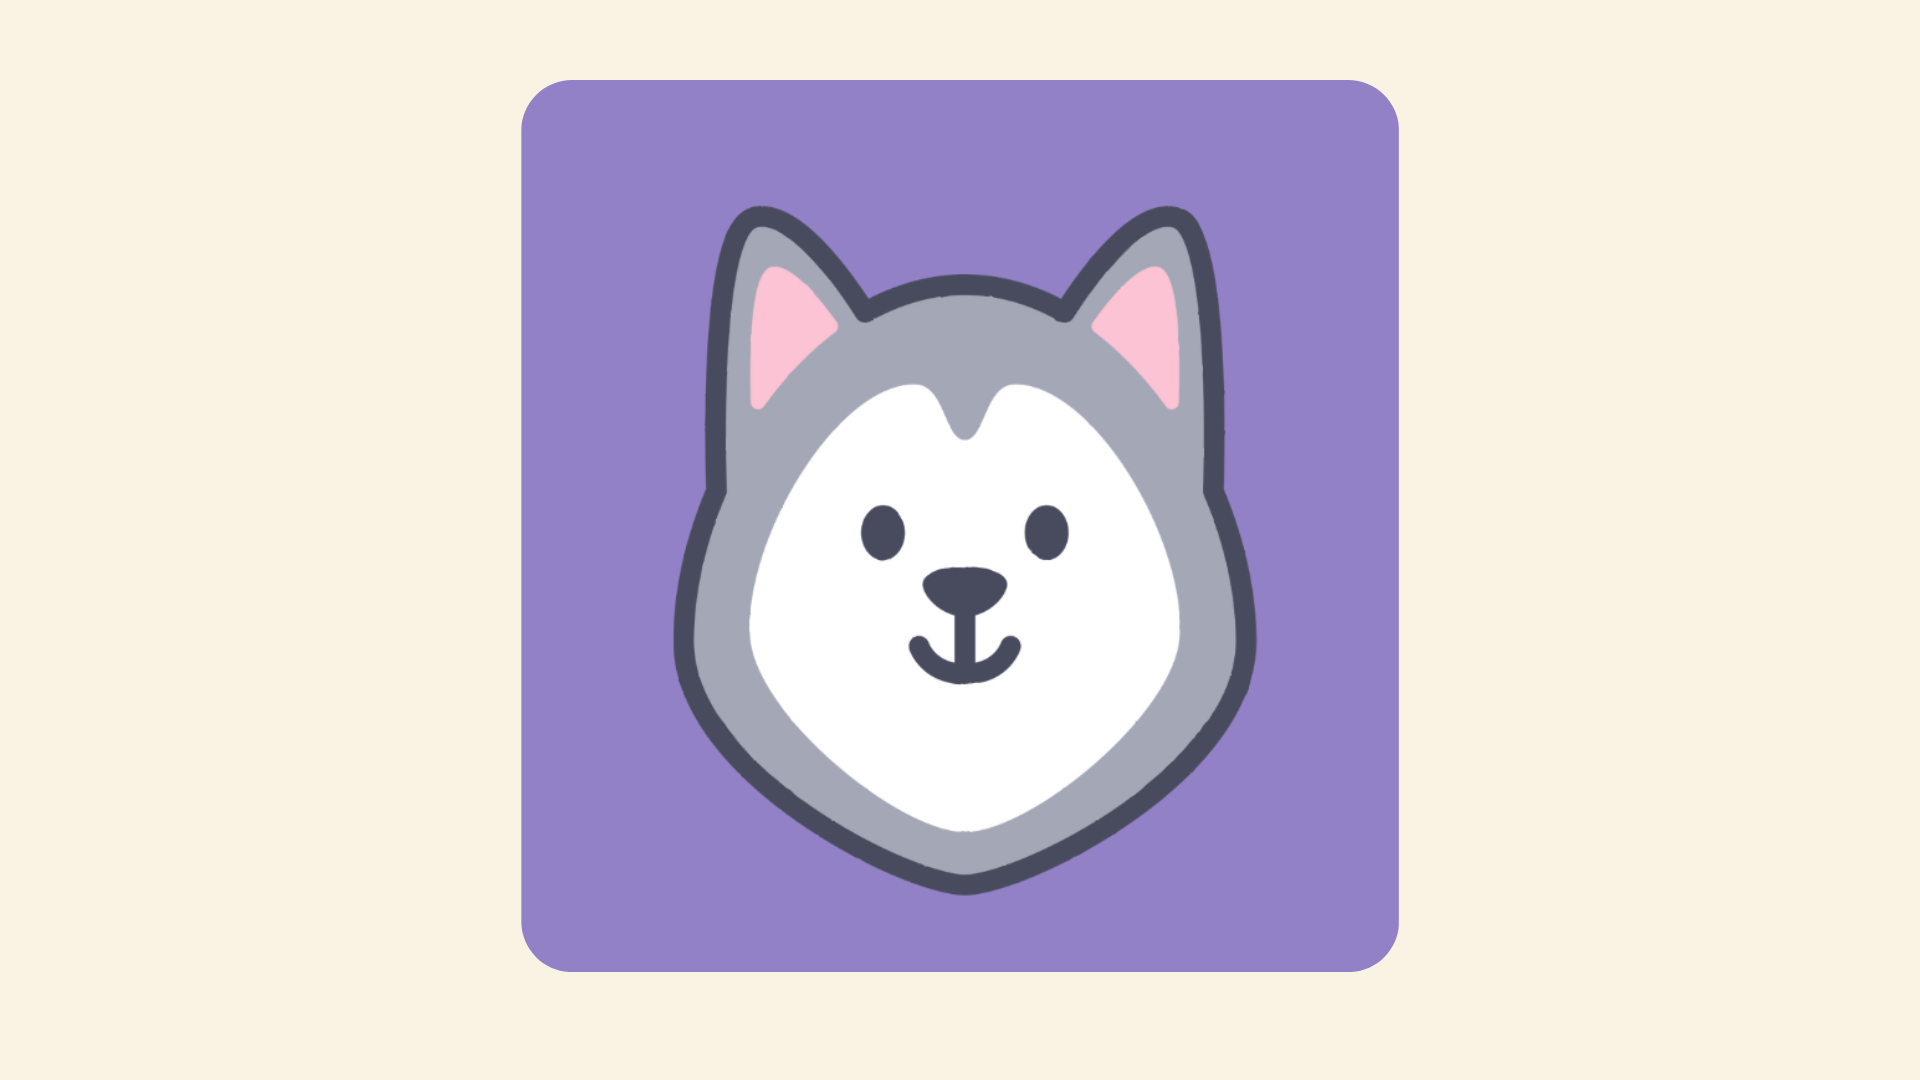
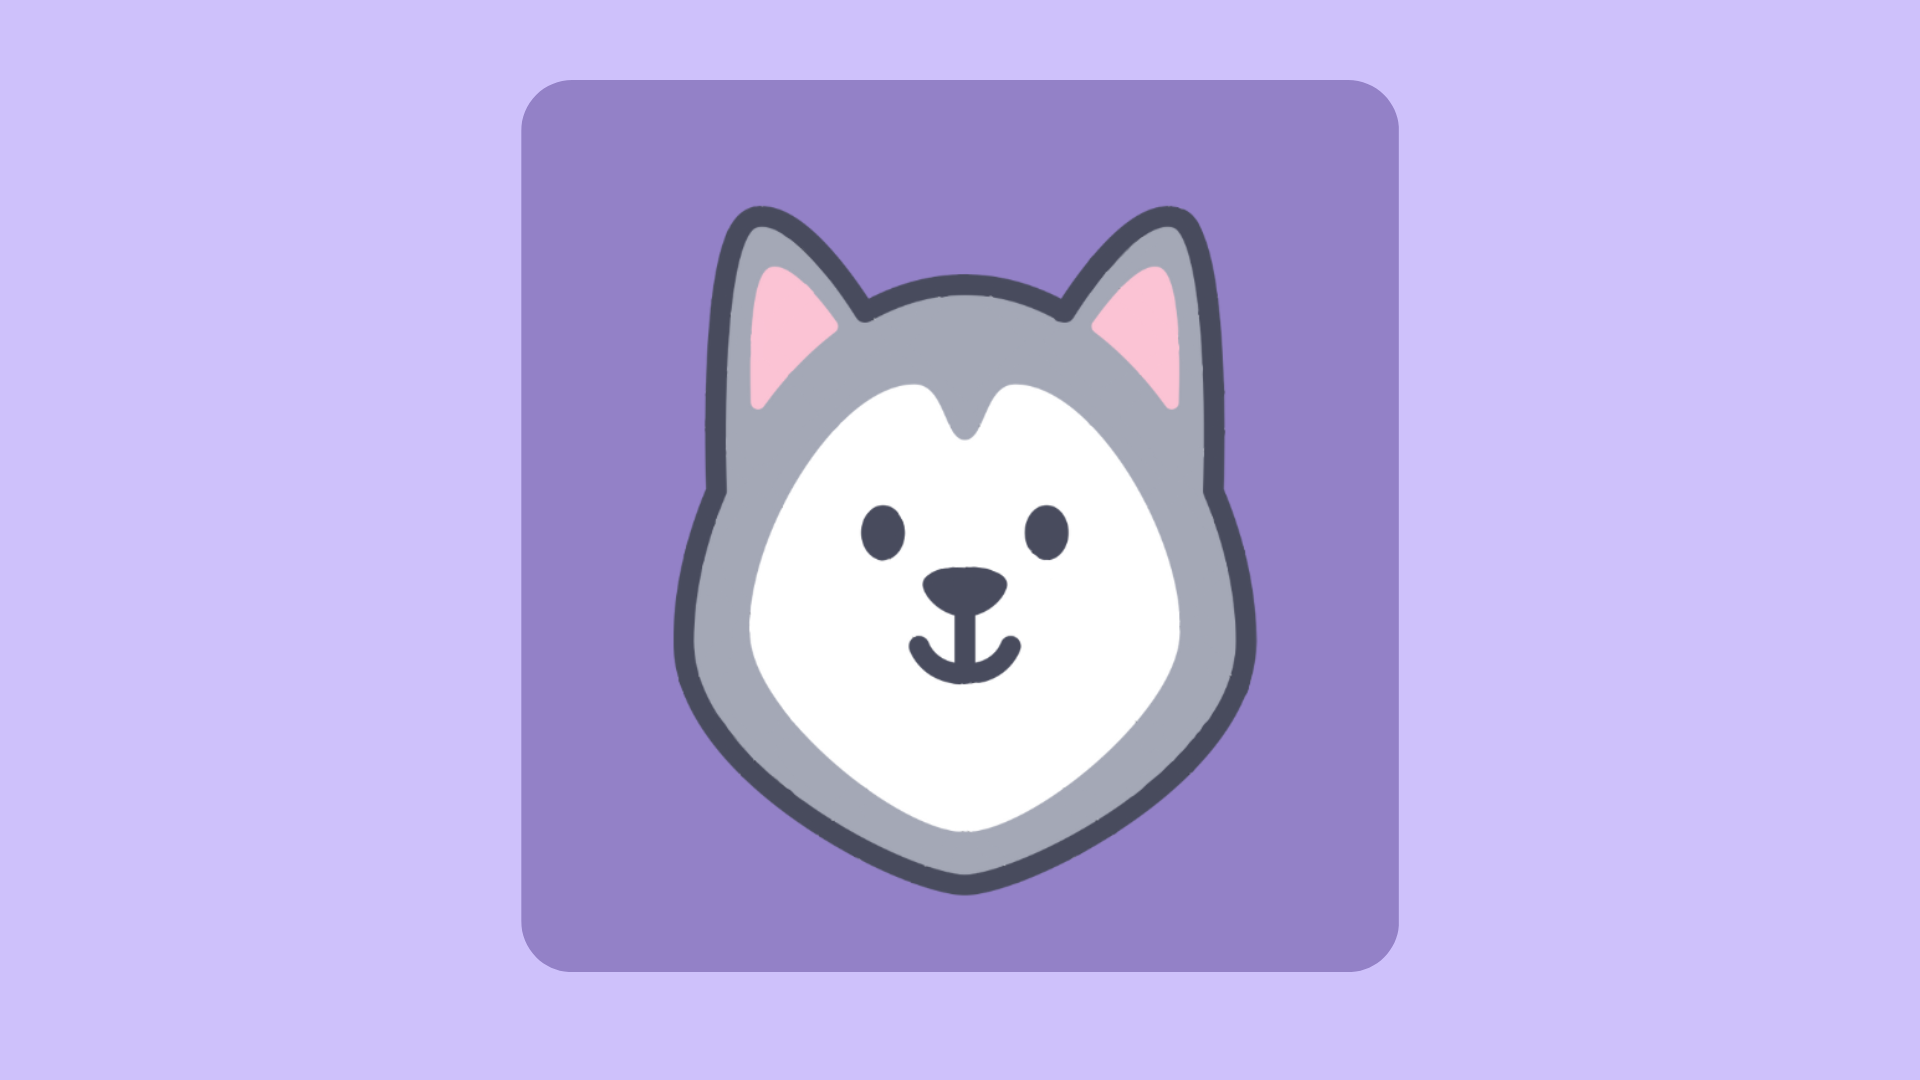
some style for about us

diff --git a/clients/src/components/AllAboutUs.jsx b/clients/src/components/AllAboutUs.jsx
@@ -1,48 +1,67 @@
-// import './AboutUs.css'; // Assuming your CSS file is named DubsTrack.css
+import "./Aboutus.css"; // Assuming your CSS file is named DubsTrack.css
 // import UserContext from '../contexts/UserContext';
-import { useContext } from 'react';
-import { Link } from 'react-router-dom';
+import { useContext } from "react";
+import { Link } from "react-router-dom";
 import appIcon from "../images/appIcon.png";
 
-import UserContext from '../contexts/UserContext';
+import UserContext from "../contexts/UserContext";
 
 const AllAboutUs = () => {
-  const { loggedInUser } = useContext(UserContext)
+  const { loggedInUser } = useContext(UserContext);
   // const {loggedInUser} = useContext(UserContext);
-  console.log(loggedInUser)
+  console.log(loggedInUser);
   return (
-    <div className = "aboutUsContainer">
-      <section>
-
-        <h2>Welcome to HuskyPal{loggedInUser.firstName}: Discover everything UW has to offer with your virtual companion!</h2>
-        <p>HuskyPal is your personalized guide to exploring the University of Washington.
-          Start each quarter by picking a trait for your HuskyPal, like adventurous or studious,
-          and get ready for a series of exciting challenges. From walking trails to attending events,
-          each activity is a step towards discovering what UW has to offer.</p>
+    <div className="aboutUsContainer">
+      <section className="titleDesc">
+        <h3 style={{padding: "60px", marginTop: "100px" }}>
+          Welcome to HuskyPal: Discover everything UW has to offer with your virtual companion!
+        </h3>
+        <img
+          src={appIcon}
+          alt="husky pall app icon"
+          style={{ width: "500px", height: "auto", marginTop: "-50px" }}
+        />
+        <p>
+          HuskyPal is your personalized guide to exploring the University of
+          Washington. Start each quarter by picking a trait for your HuskyPal,
+          like adventurous or studious, and get ready for a series of exciting
+          challenges. From walking trails to attending events, each activity is
+          a step towards discovering what UW has to offer.
+        </p>
       </section>
-
-      <img src={appIcon} alt='husky pall app icon' style={{ width: '500px', height: 'auto' }} />
 
       <section>
         <h5>Customize Your Journey</h5>
-        <p>As you complete challenges, you'll level up and unlock accessories for your HuskyPal,
-          making your virtual companion uniquely yours. Finish all your challenges for the quarter,
-          and you'll earn an exclusive reward.</p>
-      </section>
-      <section> <h4>Connect and Share</h4>
-        <p>HuskyPal isn't just for solo adventures; it's a way to connect with other students.
-          Share your experiences and take on challenges together, enriching your UW experience.</p>
+        <p>
+          As you complete challenges, you'll level up and unlock accessories for
+          your HuskyPal, making your virtual companion uniquely yours. Finish
+          all your challenges for the quarter, and you'll earn an exclusive
+          reward.
+        </p>
       </section>
       <section>
-        <h5>   <button type="button"><Link to="/home">Get Started</Link></button> </h5>
-        <p>Join HuskyPal today and turn your UW journey into an adventure filled with discovery,
-          growth, and community. Your HuskyPal is ready to explore with you!</p>
-
+        <h4>Connect and Share</h4>
+        <p>
+          HuskyPal isn't just for solo adventures; it's a way to connect with
+          other students. Share your experiences and take on challenges
+          together, enriching your UW experience.
+        </p>
       </section>
-
+      <section>
+        <h5>
+          {" "}
+          <button type="button">
+            <Link to="/home">Get Started</Link>
+          </button>{" "}
+        </h5>
+        <p>
+          Join HuskyPal today and turn your UW journey into an adventure filled
+          with discovery, growth, and community. Your HuskyPal is ready to
+          explore with you!
+        </p>
+      </section>
     </div>
-  )
-}
+  );
+};
 
-
-export default AllAboutUs
+export default AllAboutUs;

diff --git a/clients/src/components/Aboutus.css b/clients/src/components/Aboutus.css
@@ -1,110 +1,3 @@
-
-
-/* Make sure the track-container or to make it more wild */
-.track-container {
-  background-color: #f8f3e2;
-  width: 350px;
-  box-shadow: 0 4px 8px rgba(0, 0, 0, 0.1);
-  min-height: 100%;
-  min-width: 15%; /* adjust the size of the page */
-  text-align: center; /* Center align text */
-}
-
-/* Ensure the floor-content spans the full width */
-.floor-content {
-  background-color: #cec1fb;
-  padding: 20px;
-  width: 100%;
-  box-sizing: border-box;
-}
-
-.activities {
-  list-style: none;
-  padding: 0;
-}
-
-/* make the box board */
-.activities li {
-  background-color: #9381c7;
-  padding: 10px;
-  margin-bottom: 10px;
-  border-radius: 10px;
-  box-shadow: inset 0 0 10px rgba(0, 0, 0, 0.1);
-  color: #fff;
-}
-
-.avatar img {
-  width: 150px; /* Adjust the width of the image */
-  margin-bottom: -20px;
-  height: auto; /* Maintain aspect ratio */
-  display: flex; /* Use flexbox to align items horizontally */
-  justify-content: center; /* Center the items horizontally */
-}
-
-/* Reset margin for h1 within floor-content */
-.floor-content h1 {
-  margin: 0;
-  background-color: #cec1fb;
-  padding: 20px;
-  width: 100%;
-  box-sizing: border-box;
-  text-align: center; /* Center align text */
-
-}
-
-/* Add some styles to the .profile and .avatar sections */
-.profile {
-  margin-bottom: 20px; /* Add some space between profile and avatar */
-  padding: 25px;
-}
-
-.avatar {
-  display: flex; /* Use flexbox to align items horizontally */
-  justify-content: center; /* Center the items horizontally */
-  margin-bottom: -5px; /* Add margin at the bottom */
-}
-
-.homeLevel {
-  max-width: 10%;
-  max-height: 10%; /* Ensures the image doesn't exceed the container's height */
-  width: auto; /* Ensures the image maintains its aspect ratio */
-  height: auto; /* Ensures the image maintains its aspect ratio */
-  margin-top: 20%;
-}
-
-.level {
-  margin-top: -38px;
-  font-size: 12px;
-}
-
-.selected-item {
-  margin-left: -15px;
-}
-
-/* Styles for the activities list */
-.activities {
-  list-style-type: none; /* Removes default list styling */
-  padding-left: 0; /* Removes default padding */
-}
-
-/* Styles for each activity item */
-.activities li {
-  display: flex; /* Use flexbox for aligning checkbox and text */
-  align-items: center; /* Center items vertically */
-  margin-bottom: 10px; /* Add some space between list items */
-  background-color: #9381c7; /* Background color for list item */
-  color: white; /* Text color */
-  padding: 10px; /* Padding inside each list item */
-  border-radius: 5px; /* Rounded corners for the list items */
-  box-shadow: 0 2px 4px rgba(0, 0, 0, 0.1); /* Subtle shadow for depth */
-}
-
-/* Styles for the checkboxes */
-.activities li input[type="checkbox"] {
-  margin-right: 10px; /* Space between checkbox and text */
-  cursor: pointer; /* Changes cursor to pointer on hover over the checkbox */
-}
-
 .iconSize {
   max-width: 20px; /* Ensures the image doesn't exceed the container's width */
   max-height: 20px; /* Ensures the image doesn't exceed the container's height */
@@ -119,7 +12,11 @@
 }
 
 .aboutUsContainer {
-  max-width: 650px;
-  margin: auto;
-  padding: 20px;
+  max-width: 850px;
+  height: 100%;
+  background-color: #cec1fb;
+  min-height: 100%; /* Change to min-height to allow container to expand */
+  margin-top: -100px;
 }
+
+
